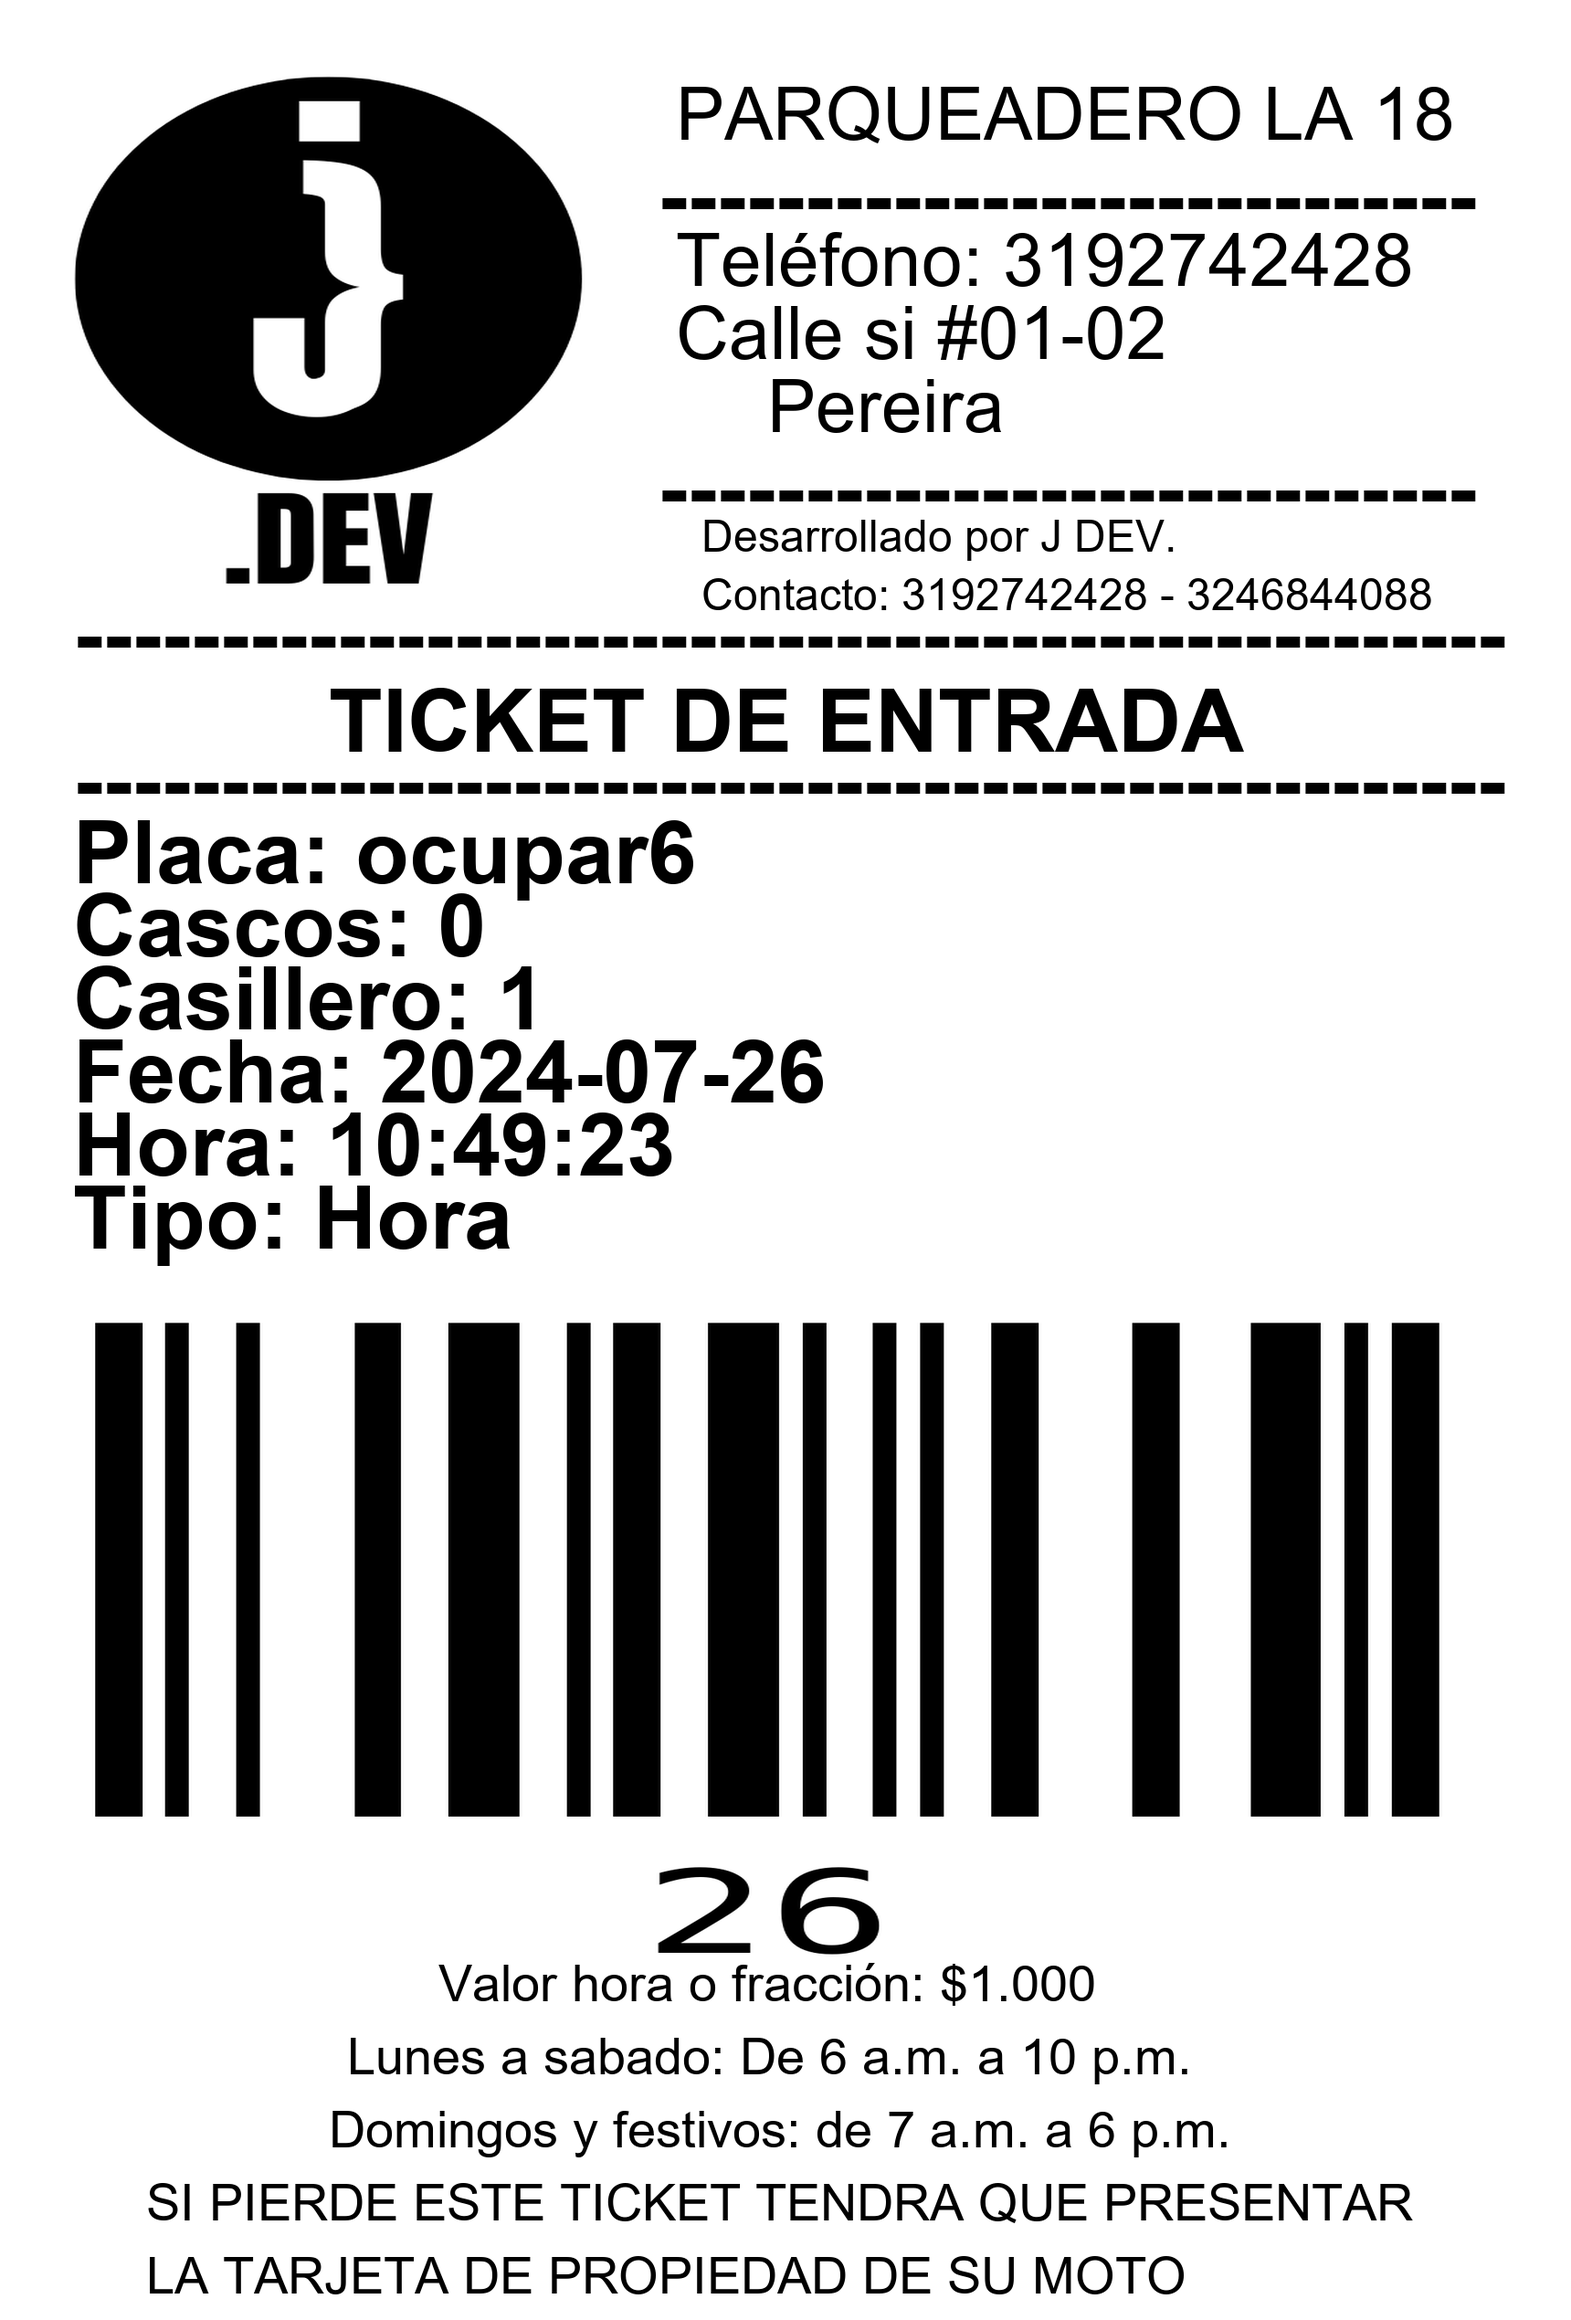
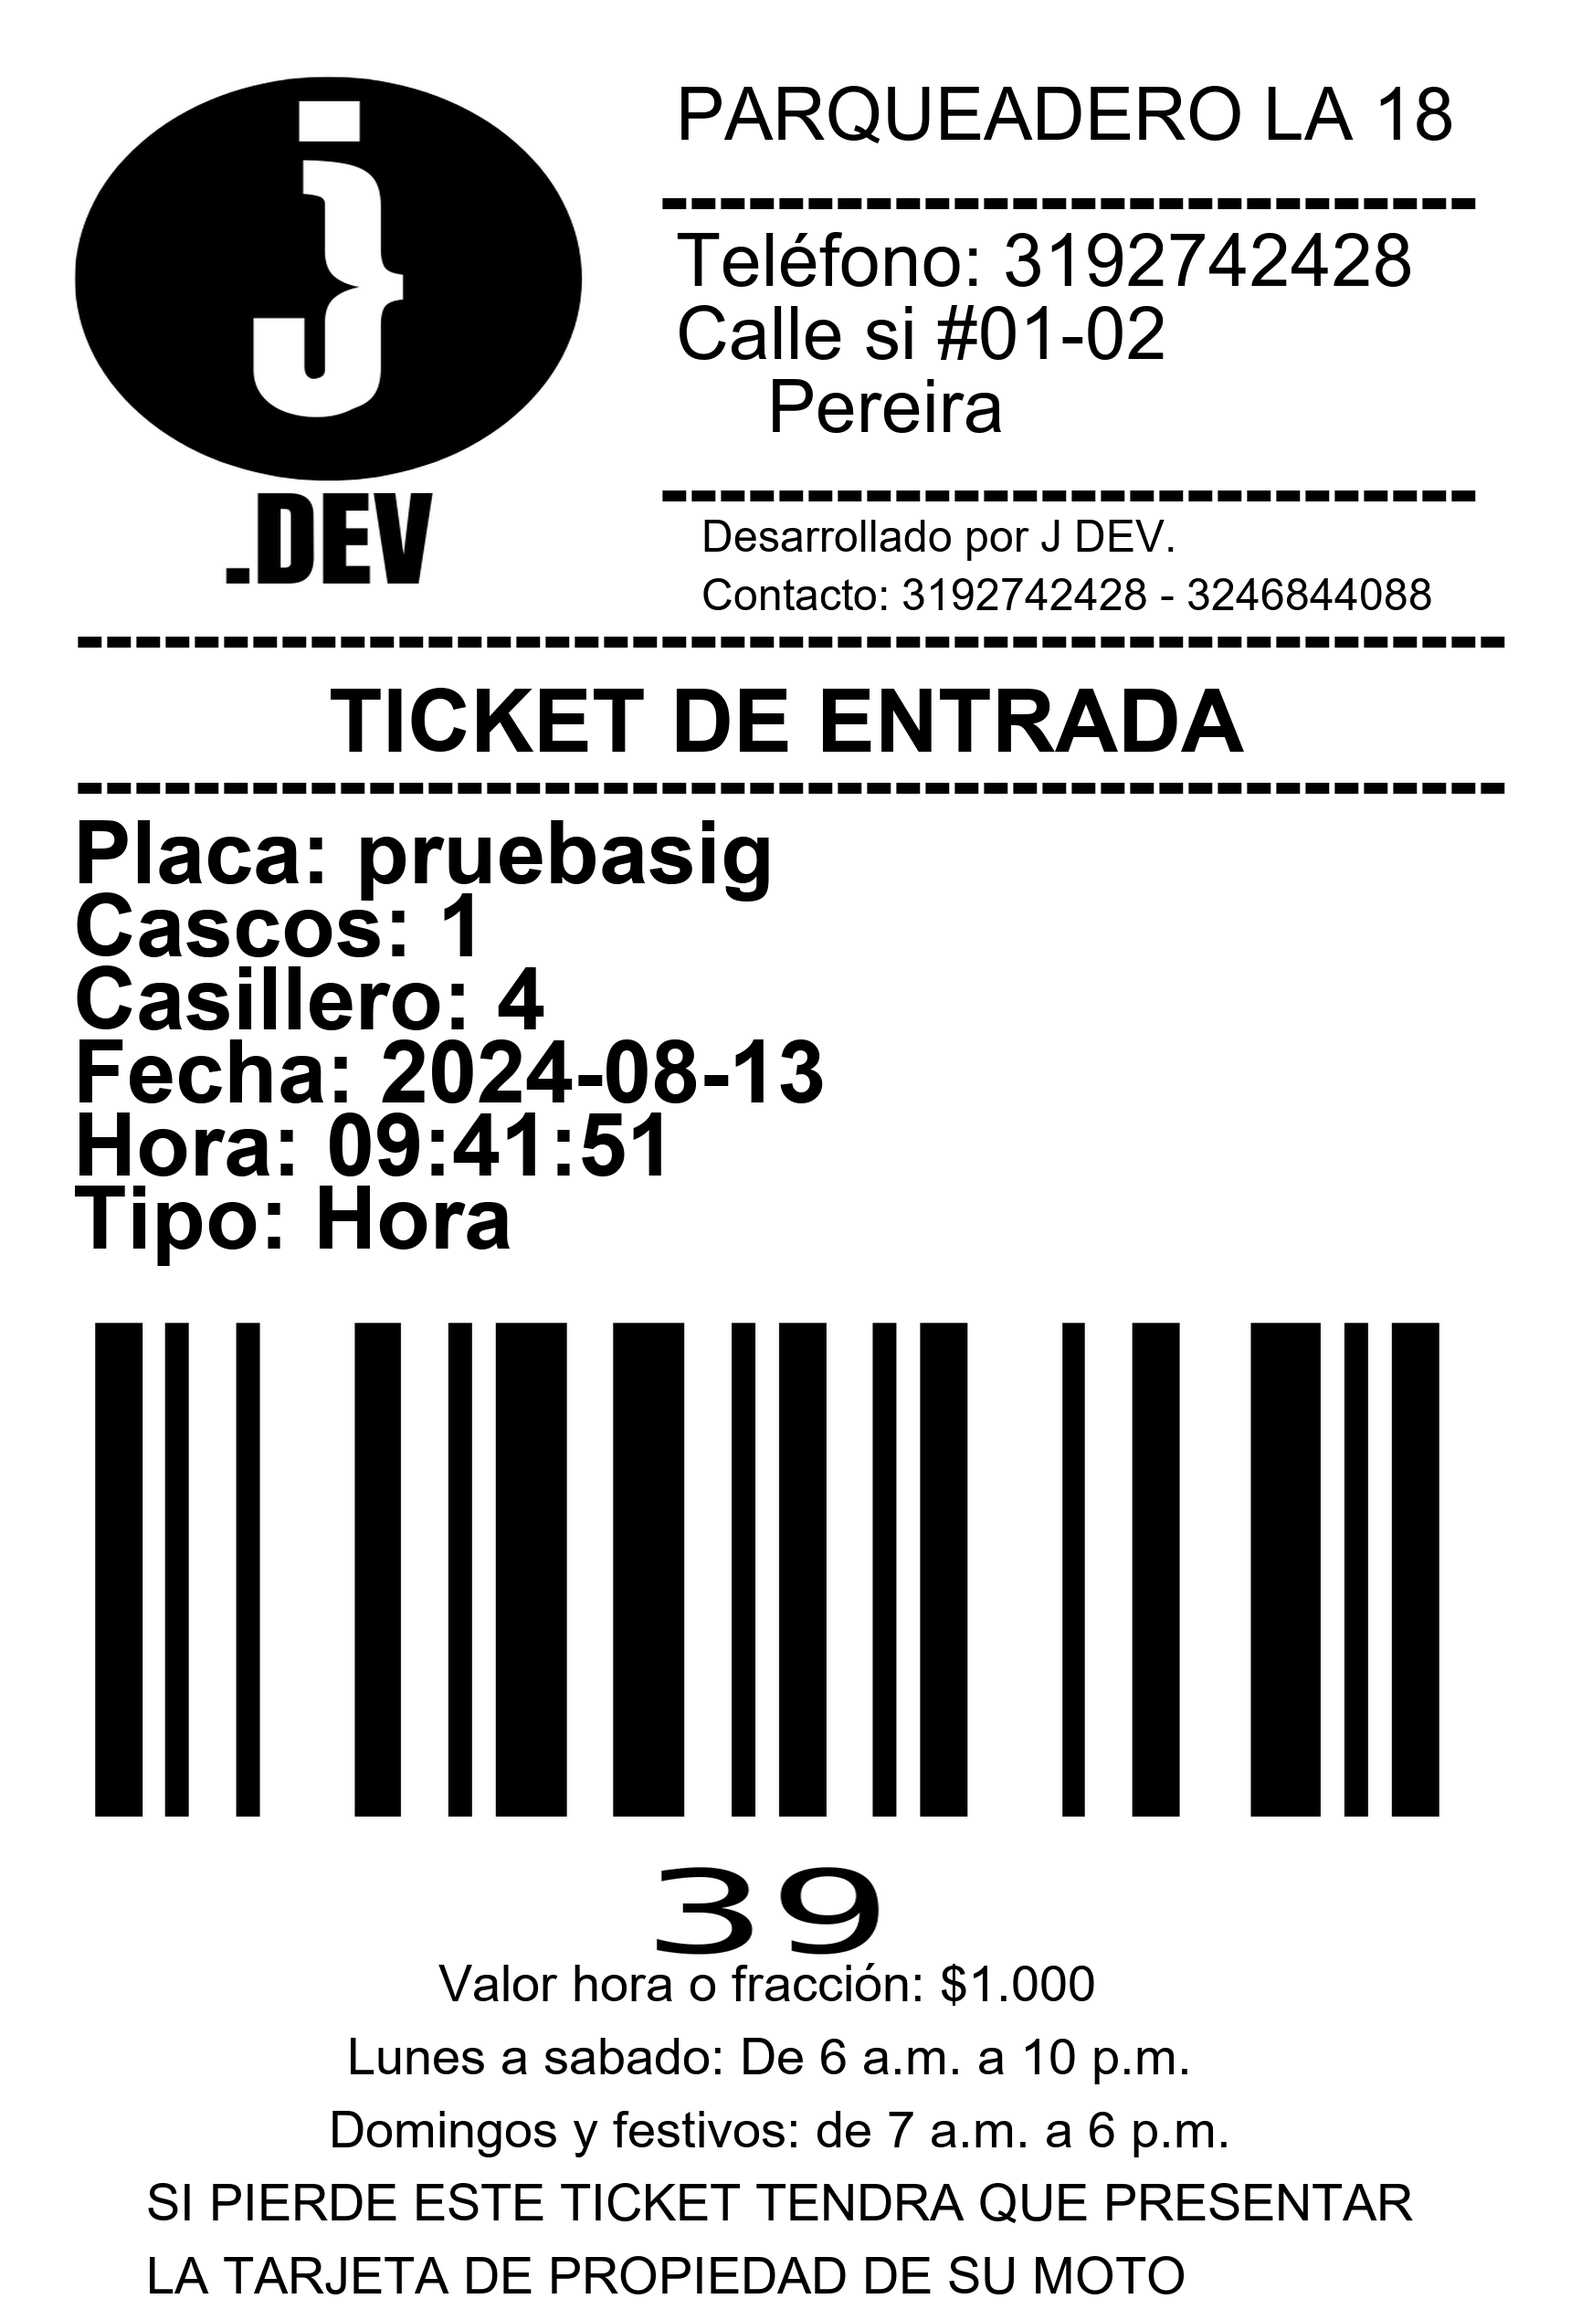
Se agregó la opción siguiente casillero en pantalla ingreso motos

diff --git a/pagina_Tickets.py b/pagina_Tickets.py
@@ -19,6 +19,8 @@ class PaginaTickets(QWidget):
         super().__init__()
         self.stacked_widget = stacked_widget
         self.initUI()
+        self.casilleros_disponibles = []
+        self.indice_actual = 0
 
     def calcularTiempoTranscurrido (self,horaIngreso,fechaIngreso,fechaHoraARestar):
           # Convertir timedelta a un objeto time
@@ -146,6 +148,7 @@ class PaginaTickets(QWidget):
             print("No se encontraron registros")
 
     def actualizarTextboxCasilleros (self):
+        self.casilleros_disponibles=[]
         db_connection = DatabaseConnection.get_instance(DB_CONFIG)
         self.textbox_casillero.setText(str(db_connection.casilleroAsignado(1))),
         self.textbox_casillerosDis.setText(str(db_connection.casillerosDisponibles(1)))
@@ -315,7 +318,17 @@ class PaginaTickets(QWidget):
         self.stacked_widgetTickets.setCurrentIndex(0)
         #se agrega toda la pagina al stack principal de la app
         self.stacked_widget.addWidget(page_principalTickets)
-
+    def siguienteCasilleroDisponible(self, pc):
+        db_connection = DatabaseConnection.get_instance(DB_CONFIG)
+        if not self.casilleros_disponibles:       
+            self.casilleros_disponibles = db_connection.listacasillerosDisponibles(pc)
+        if not self.casilleros_disponibles:
+            self.casilleros_disponibles = []
+            return None
+        # Obtener el casillero actual y avanzar al siguiente
+        casillero_actual = self.casilleros_disponibles[self.indice_actual]['id']
+        self.indice_actual = (self.indice_actual + 1) % len(self.casilleros_disponibles)
+        return casillero_actual
     def pantallaIngresoMotos (self):
          # Crear la instancia de DatabaseConnection
         db_connection = DatabaseConnection.get_instance(DB_CONFIG)
@@ -407,7 +420,10 @@ class PaginaTickets(QWidget):
         """)
         layout_ticketsIngresoMotos.addWidget(boton_cambiarcasillero, 4, 3, 1, 1,
                                 alignment=Qt.AlignCenter | Qt.AlignRight)
-
+        # Conectar el botón de imprimir a la función para buscar el siguiente disponible
+        boton_cambiarcasillero.clicked.connect(lambda: [
+            self.textbox_casillero.setText(str(self.siguienteCasilleroDisponible(1)))
+    ])
         # Crear el label "Casilleros disponibles" y el combobox
         label_casillerosDis = QLabel('Casilleros disponibles:', page_tickets)
         label_casillerosDis.setStyleSheet("color: #FFFFFF;font-size: 30px;")
@@ -446,15 +462,16 @@ class PaginaTickets(QWidget):
             textbox_placa.text(),
             combobox_cascos.currentText(),
             combobox_Tiempo.currentText(),
-            self.textbox_casillerosDis.text()
+            self.textbox_casillerosDis.text(),
         ),
+        
         textbox_placa.clear(),
         combobox_cascos.setCurrentIndex(0),
         combobox_Tiempo.setCurrentIndex(0),
         db_connection.cambiarEstadoCasillero(self.textbox_casillero.text(),"DISPONIBLE"),
         self.actualizarTextboxCasilleros(),
         self.senalActualizarTablasCasilleros.emit(),
-        self.senalActualizarTablaRegistroMotos.emit()
+        self.senalActualizarTablaRegistroMotos.emit(),
     ])
         # Establecer las proporciones de las filas en la cuadricula
         layout_ticketsIngresoMotos.setRowStretch(0, 0)
@@ -672,7 +689,7 @@ class PaginaTickets(QWidget):
         self.textboxTotalAPagarSacarMoto.clear(),
         self.senalActualizarTablasCasilleros.emit(),
         self.senalActualizarTablaRegistroMotos.emit(),
-        self.boton_facturar.setDisabled(True)
+        self.boton_facturar.setDisabled(True),
     ])
         layout_ticketsSalidaMotos.addWidget(self.boton_facturar, 8, 6, 2, 2,
                                 alignment=Qt.AlignTop| Qt.AlignCenter)

diff --git a/DatabaseConnection.py b/DatabaseConnection.py
@@ -356,7 +356,12 @@ class DatabaseConnection:
         params = (pc,)
         result = self.executeQueryReturnAll(query, params)
         return result[0]['id'] if result else None
-    
+    def listacasillerosDisponibles(self, pc):
+        query = "SELECT id FROM Casillero WHERE Pc = %s AND Estado = 'DISPONIBLE' ORDER BY Posicion ASC"
+        params = (pc,)
+        result = self.executeQueryReturnAll(query, params)
+        return result
+
     def posicionDisponible(self):
         query = "SELECT COALESCE(MAX(Posicion) + 1, 1) AS siguientePosicion FROM Casillero"
         result = self.executeQueryReturnAll(query)
